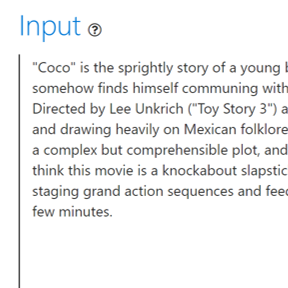
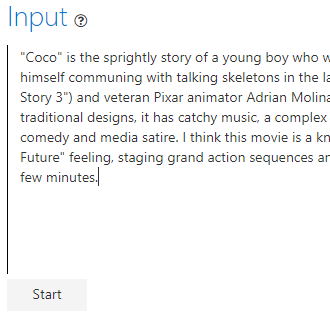
Merged PR 112: Help page. New images
+ Help page
+ New images

Changed region(s): [[0.0, 0.0312, 1.0, 1.0], [0.0, 0.1562, 0.0312, 0.8125]]

diff --git a/src/FactOrFictionCore/FactOrFictionFrontend/Controllers/HomeController.cs b/src/FactOrFictionCore/FactOrFictionFrontend/Controllers/HomeController.cs
@@ -18,5 +18,10 @@ namespace FactOrFictionFrontend.Controllers
             }
             return View();
         }
+
+        public IActionResult Help()
+        {
+            return View();
+        }
     }
 }
